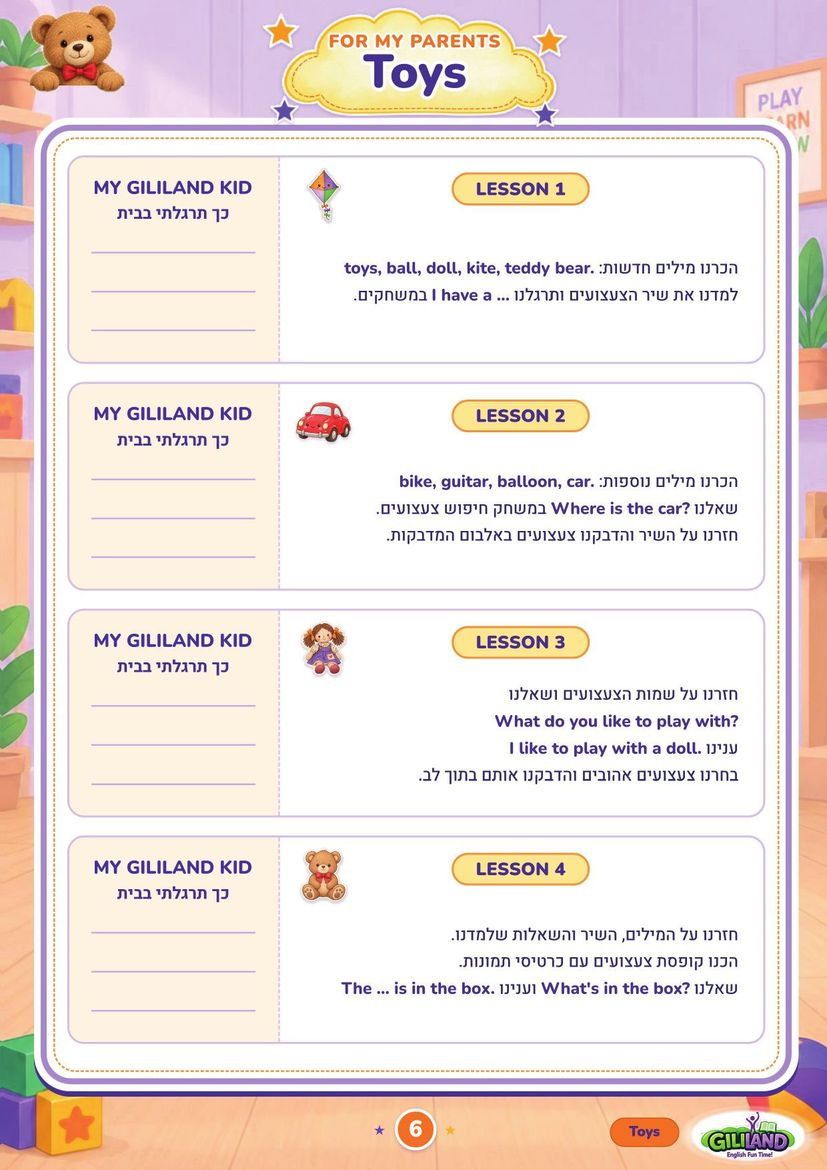
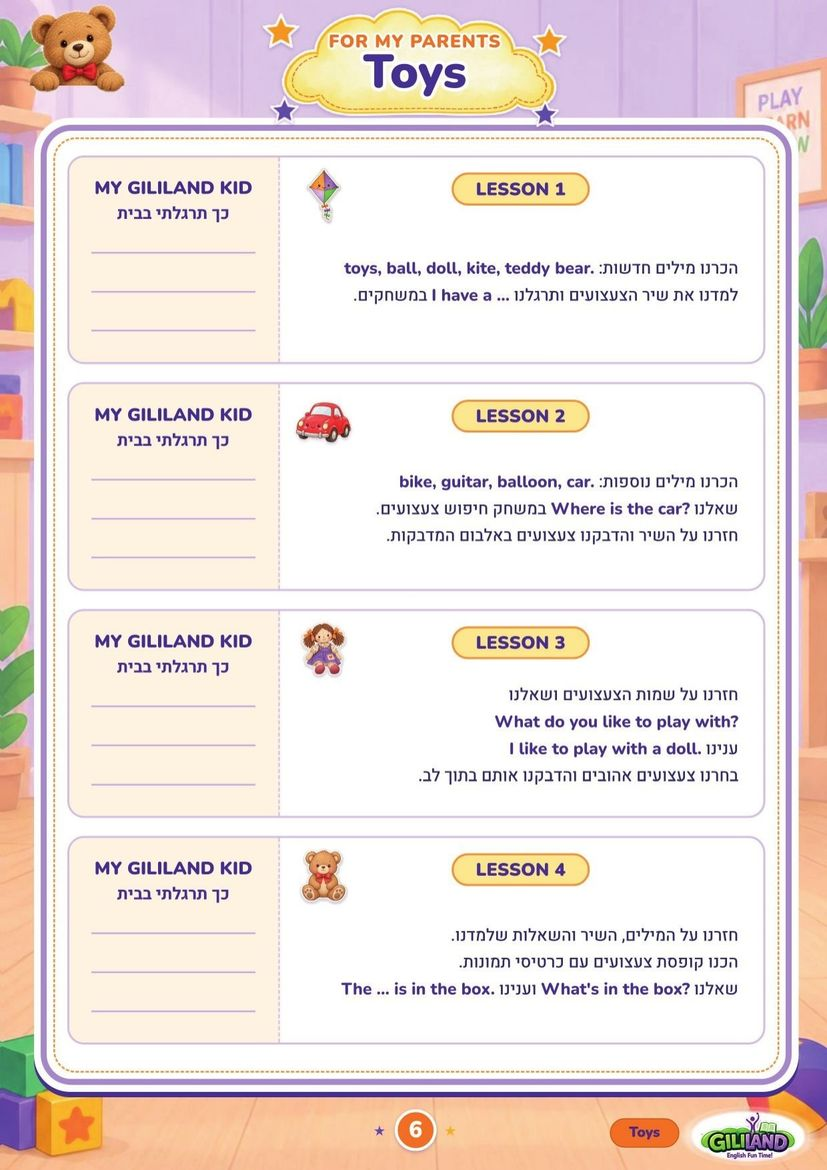
Storyboard: exact Yael parent-card headers (2026-11-25)

diff --git a/storyboard/data.js b/storyboard/data.js
@@ -6,7 +6,7 @@ var SECS = [
     "title": "חוברת גן חובה · חרדית",
     "navImg": "img/nav/gan-h.jpg",
     "tall": true,
-    "details": "45 עמודים, A4. כריכה סגולה (v3, 24.11) — לא שונתה. כותרות MY GILILAND KID הותאמו לסגנון חוברת יעל. העמודים 6, 8, 28 ו-32 הם עמודים לבנים אמיתיים ב-PDF, וממתינים להחלטה אם להשאיר אותם.",
+    "details": "45 עמודים, A4. כריכה סגולה (v3, 24.11) — לא שונתה. כותרות MY GILILAND KID הוחלפו בגרסת v5 בפונט המקורי של יעל (Nunito Black 900, 13pt, #4b2a8c). העמודים 6, 8, 28 ו-32 הם עמודים לבנים אמיתיים ב-PDF, וממתינים להחלטה אם להשאיר אותם.",
     "featured": [
       {
         "id": "gan-h-p01",
@@ -317,7 +317,7 @@ var SECS = [
     "title": "חוברת גן חובה · כללית",
     "navImg": "img/nav/gan-g.jpg",
     "tall": true,
-    "details": "45 עמודים, A4. כריכה קדמית ואחורית חדשות (25.11). כותרות MY GILILAND KID הותאמו לסגנון חוברת יעל. העמודים 6, 8, 28 ו-32 לבנים גם כאן, וממתינים להחלטה.",
+    "details": "45 עמודים, A4. כריכה קדמית ואחורית חדשות (25.11). כותרות MY GILILAND KID הוחלפו בגרסת v5 בפונט המקורי של יעל (Nunito Black 900, 13pt, #4b2a8c). העמודים 6, 8, 28 ו-32 לבנים גם כאן, וממתינים להחלטה.",
     "featured": [
       {
         "id": "gan-g-p01",

diff --git a/storyboard/NOTES.md b/storyboard/NOTES.md
@@ -16,8 +16,8 @@
 
 ## מקורות
 
-- חוברת חרדית: `/workspace/booklet/gililand-ganchova/v4_titles_2026-11-25/GILILAND_gan-chova_haredi_v4_titles_view.pdf` (כריכות v3 ללא שינוי; כותרות תוקנו)
-- חוברת כללית: `/workspace/booklet/gililand-ganchova/v4_titles_2026-11-25/GILILAND_gan-chova_general_v4_titles_covers_view.pdf` (כריכות חדשות + כותרות תוקנו)
+- חוברת חרדית: `/workspace/booklet/gililand-ganchova/v5_titles_exact_2026-11-25/GILILAND_gan-chova_haredi_v5_titles_exact_view.pdf` (כריכות v3 ללא שינוי; כותרות תוקנו)
+- חוברת כללית: `/workspace/booklet/gililand-ganchova/v5_titles_exact_2026-11-25/GILILAND_gan-chova_general_v5_titles_exact_covers_view.pdf` (כריכות חדשות + כותרות תוקנו)
 - נספח חוברת: `/workspace/booklet/gililand-ganchova/stickers_appendix_2026-11-24/out_files/GILILAND_gan-chova_stickers_appendix_{haredi,general}_v2.pdf`
 - סטוריבורדים: `/workspace/booklet/gililand-storyboards_2026-11-24/`
 - אלבום v4c: רסטרים מ-`album_v4b/pages_trim` עם החלפות v4c ב-p02, p04, p06, p10, p12, p24
@@ -32,3 +32,8 @@
 - חוברת כללית: כריכה קדמית ואחורית חדשות מתוך תמונת ChatGPT של יהודה (חצי שמאל = קדמית, חצי ימין = אחורית). הכריכה החרדית לא שונתה.
 - מקור החוברות באתר: `/workspace/booklet/gililand-ganchova/v4_titles_2026-11-25/`.
 - לא נשלח לאף אחד. הקומיט מקומי בלבד, בלי push.
+
+## עדכון v5 — 25.11.2026
+
+- כותרות MY GILILAND KID בחוברת גן חובה (חרדית וכללית, עמודים 9, 14, 19, 24, 29, 37, 41, 44) נבנו מחדש מתוך מקור ה-HTML/CSS והפונט המקורי של יעל (`Nunito-VariableFont_wght.ttf`, `font-weight: 900`, `13pt`, `#4b2a8c`).
+- מקור החוברות המעודכן: `/workspace/booklet/gililand-ganchova/v5_titles_exact_2026-11-25/`.
